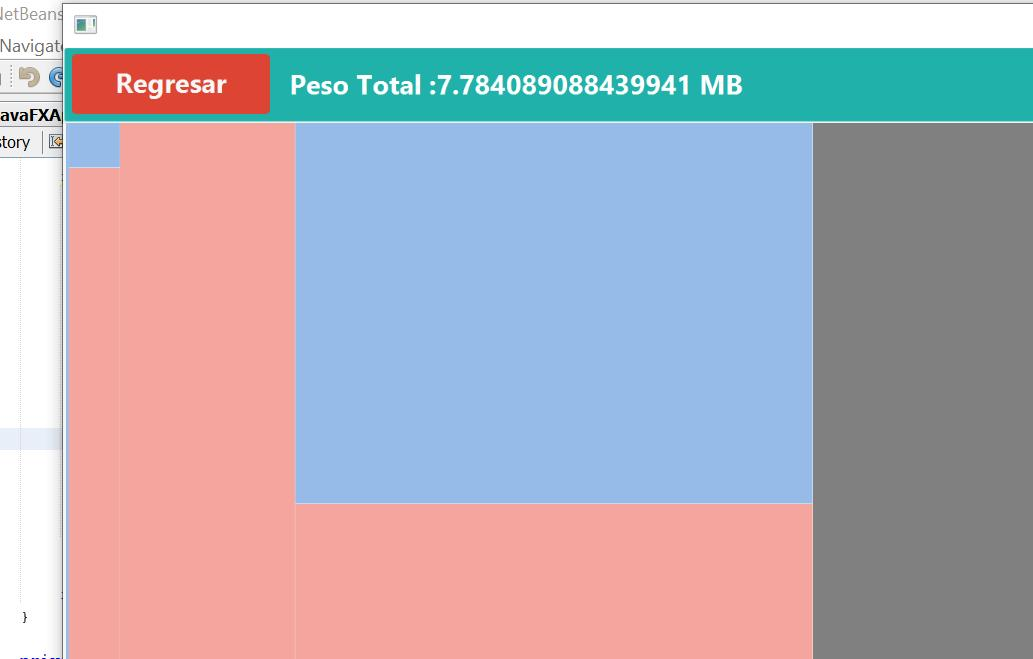
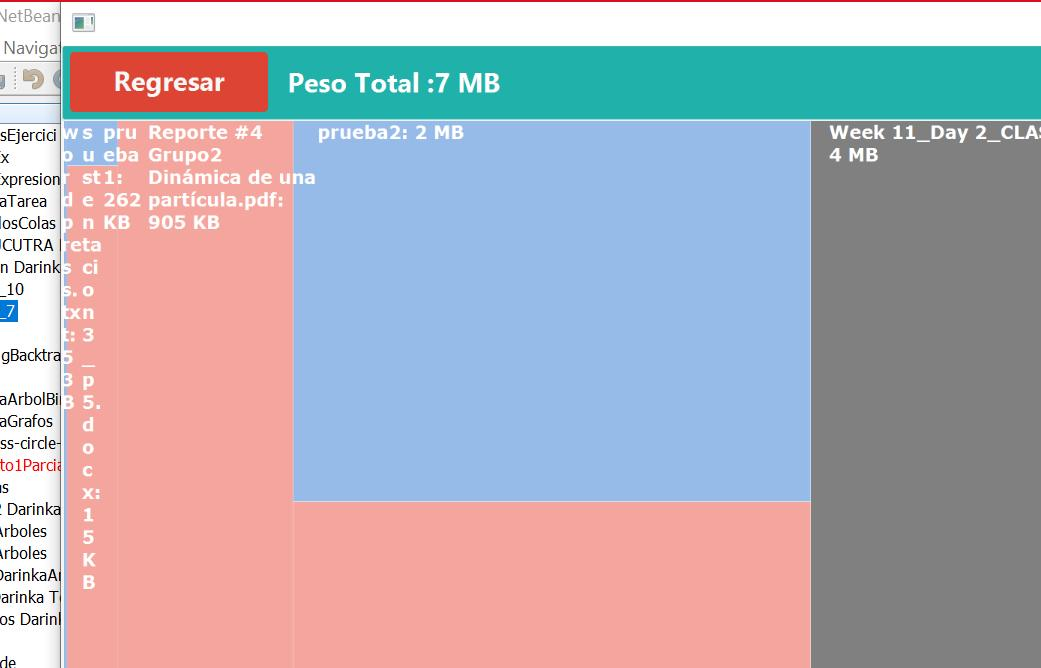
Color

Changed region(s): [[0.0, 0.0, 1.0, 1.0]]

diff --git a/Grupo_7/src/Interfaz/VisualizadorController.java b/Grupo_7/src/Interfaz/VisualizadorController.java
@@ -30,6 +30,8 @@ import javafx.scene.layout.VBox;
 import javafx.scene.paint.Color;
 import javafx.scene.paint.Paint;
 import javafx.scene.shape.Rectangle;
+import javafx.scene.text.Font;
+import javafx.scene.text.FontWeight;
 import javafx.stage.Stage;
 import javax.imageio.ImageIO;
 import programa.ManejadorArchivos;
@@ -195,6 +197,8 @@ public class VisualizadorController implements Initializable {
         newBox.setPrefSize(xMax, yMax);
         Label lbl = new Label(nombre+": "+ManejadorArchivos.ObtenerPeso(peso));
         lbl.setWrapText(true);
+        lbl.setTextFill(Color.web("#ffffff"));
+        lbl.setFont(Font.font("Verdana",FontWeight.BOLD,12));
         newBox.getChildren().add(lbl);
         newBox.setOnMouseClicked(e->abrirUbicacion(archivo));
         base.getChildren().add(newBox);
